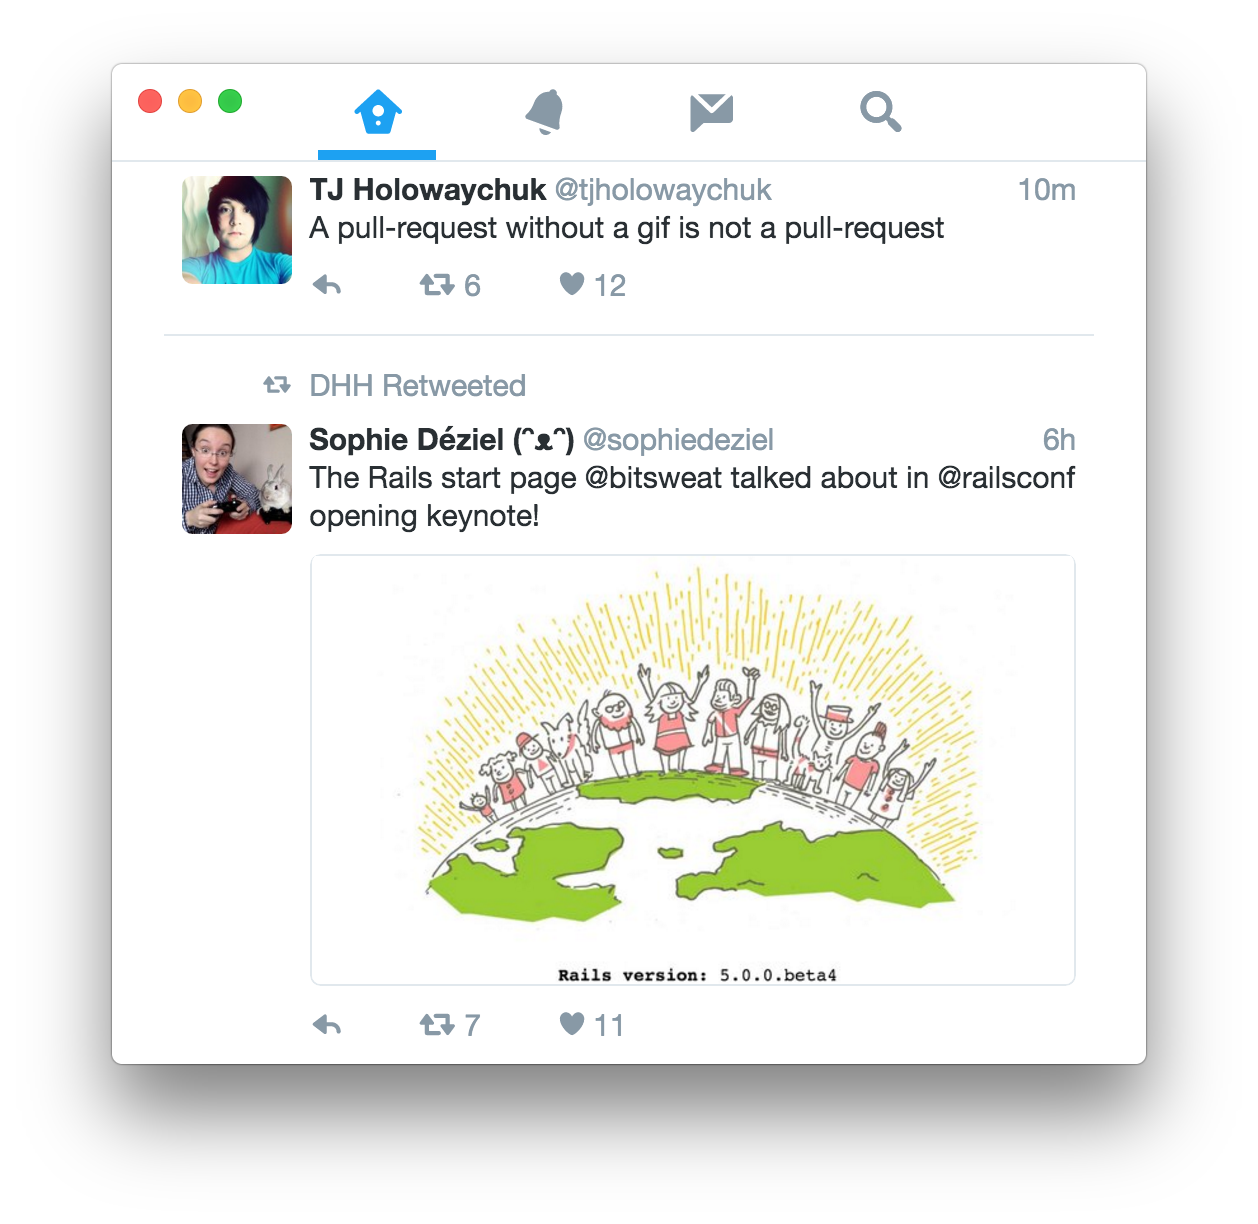
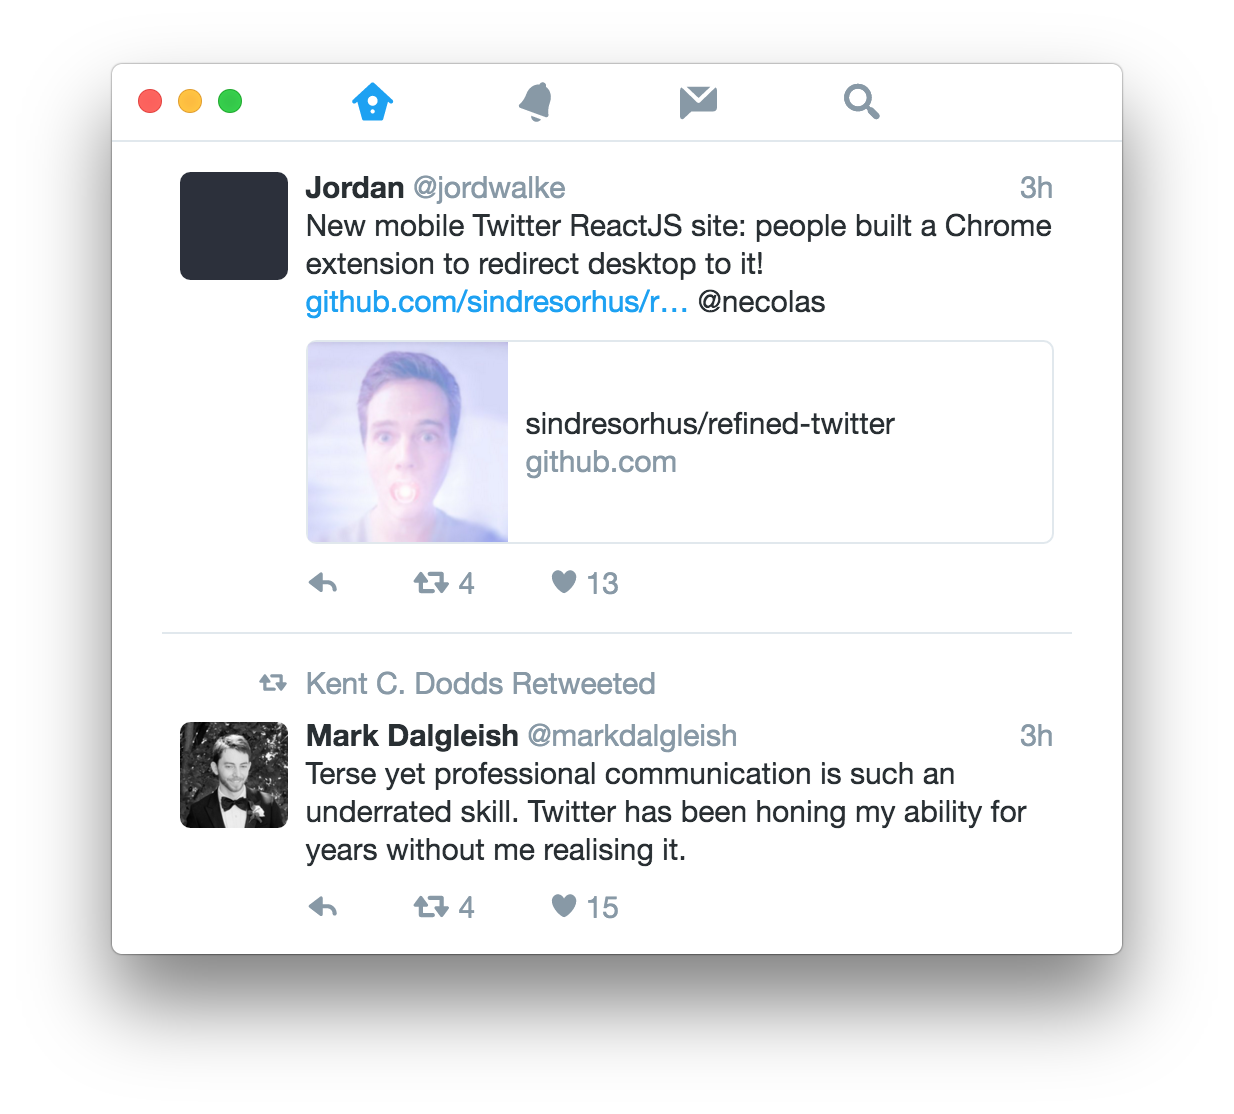
some style tweaks

diff --git a/browser.js b/browser.js
@@ -1,4 +1,5 @@
 'use strict';
+/* eslint-disable */
 
 /* mousetrap v1.5.3 craig.is/killing/mice */
 (function(C,r,g){function t(a,b,h){a.addEventListener?a.addEventListener(b,h,!1):a.attachEvent("on"+b,h)}function x(a){if("keypress"==a.type){var b=String.fromCharCode(a.which);a.shiftKey||(b=b.toLowerCase());return b}return l[a.which]?l[a.which]:p[a.which]?p[a.which]:String.fromCharCode(a.which).toLowerCase()}function D(a){var b=[];a.shiftKey&&b.push("shift");a.altKey&&b.push("alt");a.ctrlKey&&b.push("ctrl");a.metaKey&&b.push("meta");return b}function u(a){return"shift"==a||"ctrl"==a||"alt"==a||

diff --git a/browser.css b/browser.css
@@ -26,3 +26,18 @@
 img.larrybird {
 	padding-left: 80px !important;
 }
+
+/* make nav bar more narrow */
+#react-root ._2XOZ62oy {
+	height: 2.6rem !important;
+}
+
+/* remove bottom border from active navbar tab */
+#react-root ._1Qfdd7IP {
+	box-shadow: none !important;
+}
+
+/* smaller navbar icons */
+#react-root ._3zdG1IkJ {
+	height: 1.7rem !important;
+}

diff --git a/readme.md b/readme.md
@@ -5,7 +5,7 @@
 <br>
 <div align="center">
 	<a href="https://github.com/sindresorhus/anatine/releases/latest" align="center">
-		<img src="media/screenshot.png" width="629">
+		<img src="media/screenshot.png" width="617">
 	</a>
 </div>
 
